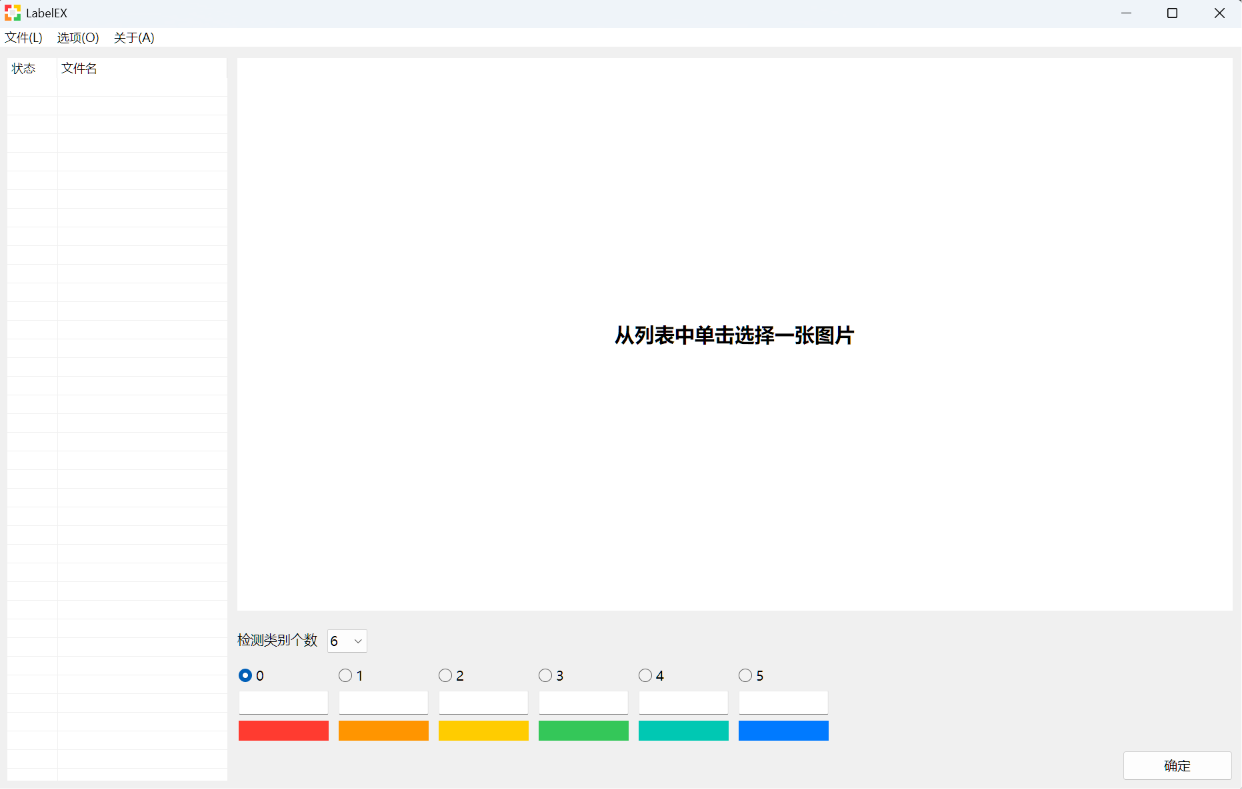
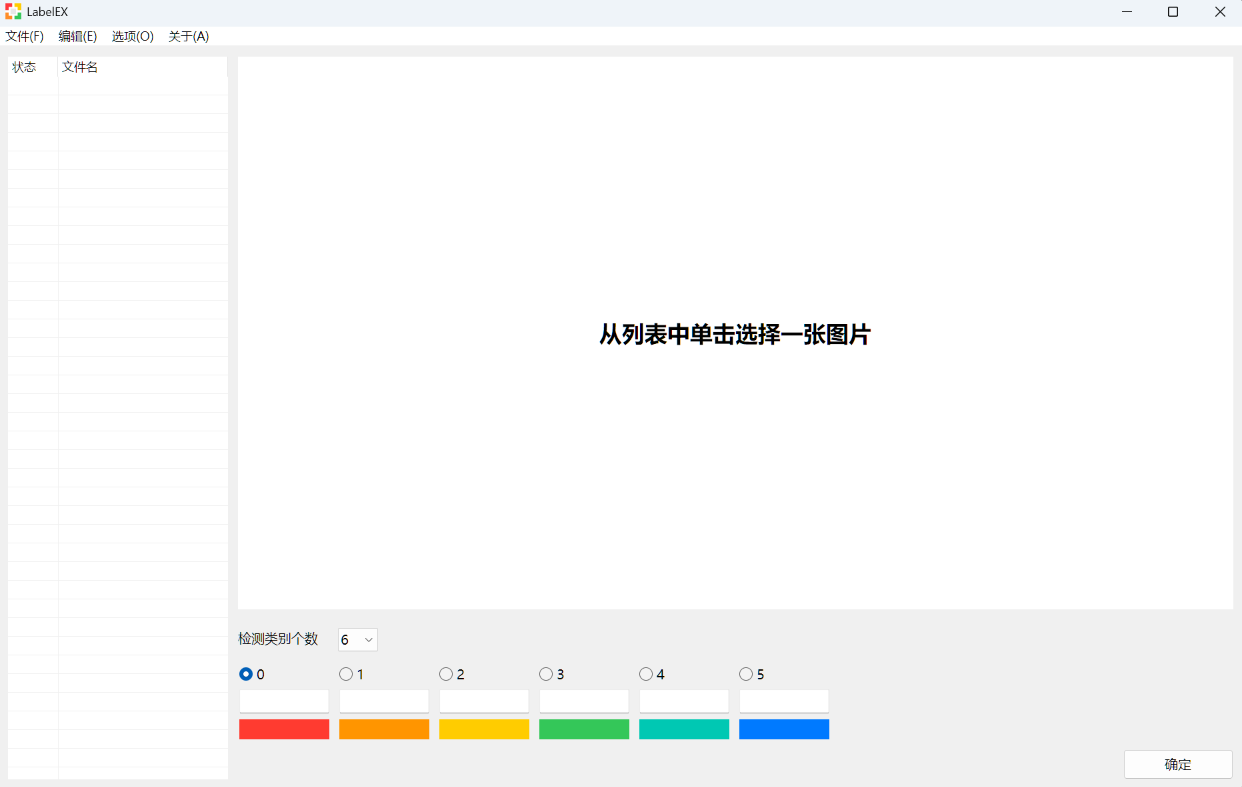
<01003> Released as VERSION v1.0.0,  added documentation of this version

diff --git a/doc/API_DOCUMENTATION.md b/doc/API_DOCUMENTATION.md
@@ -1,5 +1,5 @@
 # LabelEX API Documentation
-> Version: 0.1.0(beta) Dev 00021  
+> Version: 1.0.0 Dev 01003 
 > Language: Simplified Chinese
 
 ## Content
@@ -15,12 +15,18 @@
 #define ID_OPEN_FOLDER 1002							//Menu ID for folder opening
 #define ID_EXPORT_CALI 1003							//Menu ID for Caliberation Dataset exporting
 #define ID_EXPORT_DATASET 1004						//Menu ID for Dataset exporting
-#define ID_CONFIG_EXPORT 2001						//Menu ID for exporting configuration
-#define ID_CONFIG_INTERFACE 2002					//Menu ID for ui configuration
-#define ID_VERSION 3001								//Menu ID for version page
-#define ID_MIT 3002									//Menu ID for license page
+#define ID_UNDO 2001								//Menu ID for Undoing operations on IDC_PICTURE
+#define ID_REDO 2002								//Menu ID for Redoing operations on IDC_PICTURE
+#define ID_DELETE_PHOTO 2003						//Menu ID for deleting selected image
+#define ID_AUDIT 2004								//(Unfinished) Menu ID for Entering auditing mode
+#define ID_CONFIG_EXPORT 3001						//(Aborted) Menu ID for export configurations
+#define ID_CONFIG_INTERFACE 3002					//Menu ID for interface configurations
+#define ID_VERSION 4001								//Menu ID for version page
+#define ID_MIT 4002									//Menu ID for license page
 #define WM_USER_REFRESH_LIST (WM_USER + 100)		//Message for a thorough list refresh, when photos are added or removed
 #define WM_USER_UPDATE_ITEM (WM_USER + 101)			//Message for item adding, when txt files are added or removed
+#define WM_USER_DELETE_IMAGE (WM_USER + 104)		//Message for deleting images
+#define WM_USER_DELETE_POINTER (WM_USER + 105)		//Message for deleting pCurrentImage
 ```
 #### PagePicture.cpp
 ```cpp
@@ -28,12 +34,15 @@
 #define WM_USER_UPDATE_ITEM (WM_USER + 101)			//Message for item adding, when txt files are added or removed
 #define WM_USER_STOP_MONITOR (WM_USER + 102)		//Message for stopping folder monitor
 #define WM_USER_START_MONITOR (WM_USER + 103)		//(Aborted) Message for starting folder monitor
+#define WM_USER_DELETE_IMAGE (WM_USER + 104)		//Message for deleting images
+#define WM_USER_DELETE_POINTER (WM_USER + 105)		//Message for deleting pCurrentImage
+#define WM_USER_CLEAR_PICTURE (WM_USER + 106)		//Message for clearing IDC_PICTURE
 #define WM_USER_UPDATE_LISTVIEW (WM_USER + 200)		//Message for UI updating of IDC_LISTVIEW
 #define WM_USER_UPDATE_PROGRESS (WM_USER + 201) 	//Message for UI updating of IDC_PROGRESS
 #define WM_USER_STOP_MARQUEE (WM_USER + 301)		//Message for stopping MARQUEE of IDC_PROGRESS
 #define TIMER_REFRESH_DEBOUNCE 1001					//Message for time-up of the timer 
 ```
-#### PageAbout.cpp
+#### PageVideo.cpp
 ```cpp
 #define WM_USER_REFRESH_LIST (WM_USER + 100)		//Message for a thorough list refresh, when photos are added or removed
 #define WM_USER_VIDEO_READY (WM_USER + 400)			//Message when a video is accepted by FFmpeg and is ready to convert
@@ -52,11 +61,6 @@
 ## Structs
 #### PagePicture.cpp
 ```cpp
-struct BBox {
-	int left, top, right, bottom;	//The basic specs of your drawn rectangle
-	int classId;					//The Class ID of the circled object
-};
-
 struct ImageFileInfo {
 	std::wstring fileName;			//The filename in the IDC_LISTVIEW
 	BOOL status;					//The status in the IDC_LISTVIEW
@@ -90,6 +94,16 @@ struct SplitParams
 	BOOL bType;									//type of the processing
 };
 ```
+#### history.h
+```cpp
+struct BBox;				//struct of boxes
+struct DocumentSnapshot;	//struct of snapshot for boxes
+class History				//class of limited history record
+```
+#### ini.h
+```cpp
+class IniFile				//class of configurating config.ini
+```
 
 ## Global Variables
 #### main.cpp
@@ -103,23 +117,27 @@ HWND hPagePicture;							//Picture页面句柄
 ```
 #### PagePicture.cpp
 ```cpp
-Bitmap* pCurrentImage = nullptr;					//打开的图片句柄
+Bitmap* pCurrentImage = nullptr;					//当前显示的图片句柄（GDI+ Bitmap）
 HWND hImageCtrl = nullptr;							//图片编辑区句柄（Button控件）
-HWND hProgressDlg = nullptr;						//处理窗口句柄
-std::vector<BBox> bboxes;							//矩形集合
-int currentClassId = 0;								//当前的物体的类别
-int selectedIndex = -1;								//选中的矩形索引
-int threshold = 6;									//画笔与矩形宽度							
-WNDPROC oldPicProc = NULL;							//子类化前原有的处理过程
+HWND hProgressDlg = nullptr;						//处理窗口句柄（marquee 进度框）
+std::vector<BBox> bboxes;							//当前图片的矩形集合
+std::vector<BBox> dragStartBBoxes;					//拖拽开始时的矩形快照（用于判断是否提交历史）
+
+int currentClassId = 0;								//当前选中的物体类别
+int selectedIndex = -1;								//选中的矩形索引（-1 表示无选中）
+int iniBox = 4;										//矩形边框粗细（从 INI 读取）
+int iniHandle = 8;									//手柄尺寸（从 INI 读取）
+WNDPROC oldPicProc = NULL;							//子类化前原有的窗口过程
 enum DragMode {None, Moving, Resizing, Creating};	//鼠标拖拽模式
-DragMode dragMode = None;
-int resizeHandle = -1;								//手柄
-POINT dragStart;									//起始拖拽坐标
-POINT dragOffset;									//拖拽偏移量								
-wchar_t szFolderPath[MAX_PATH] = { 0 };				//当前文件夹目录
-std::wstring currentImagePath;						//当前图片目录
-BOOL isProcessExist = false;						//是否正在处理
-BOOL isPendingRefresh = false;						//处理过程中是否有新的
+DragMode dragMode = None;							//当前拖拽状态
+int resizeHandle = -1;								//当前拖拽的手柄索引（-1 表示无）
+POINT dragStart;									//拖拽起始坐标（图像坐标系）
+POINT dragOffset;									//拖拽偏移量（图像坐标系）
+wchar_t szFolderPath[MAX_PATH] = { 0 };				//当前标注文件夹目录
+std::wstring currentImagePath;						//当前图片完整路径
+BOOL isProcessExist = false;						//刷新线程是否正在运行
+BOOL isPendingRefresh = false;						//刷新期间是否有新的刷新请求
+History history;									//撤销/重做栈
 ```
 #### PageVideo.cpp
 ```cpp
@@ -130,6 +148,7 @@ int videoCount;										//视频计数
 #### PageExport.cpp
 ```cpp
 HWND hDsProcessDlg;									//数据集处理窗口句柄
+BOOL isChanged = FALSE;								//百分比同时变化限制
 ```
 
 ## Functions
@@ -285,6 +304,17 @@ Color GetClassColor(int classId)
 - 简介：画笔选择颜色用以绘制不同的类的矩形
 - 参数：类`classId`
 - 返回：颜色类`
+void DoUndo(HWND hImg)
+撤销图片标注更改
+- 简介：从历史栈弹出并恢复到上一步的矩形集合
+- 参数：图片编辑区句柄`hImg`
+- 返回：无
+
+void DoRedo(HWND hImg)
+重做图片标注更改
+- 简介：从历史栈恢复被撤销的矩形集合
+- 参数：图片编辑区句柄`hImg`
+- 返回：无
 
 #### PageVideo.cpp
 ```cpp
@@ -326,7 +356,18 @@ DWORD WINAPI DoConvertVideo(LPVOID lpParam)
 - 简介：通过FFmpeg动态链接库解析视频，保存指定帧到指定的文件夹
 - 参数：父窗口上下文`lpParam`
 - 返回：任何时候都返回`0`
-
+```cpp
+bool WriteYaml(const std::wstring& path, const std::wstring& content);
+```
+- 简介：将字符串内容以 UTF-8 编码写入指定文件。
+- 参数：path：目标文件完整路径。content：要写入的文本内容。
+- 返回：true：文件打开成功并完成写入。false：文件打开失败。
+```cpp
+bool IsEditEmpty(HWND hEdit);
+```
+简介：判断 EDIT 控件中的文本是否为空或仅由空白字符组成。
+参数：hEdit：EDIT 控件窗口句柄。
+返回：true：文本为空或全为空白。false：存在至少一个非空白字符。
 #### PageExport.cpp
 ```cpp
 DWORD WINAPI BuildDataset(LPVOID lpParam)

diff --git a/doc/USER_MANUAL.md b/doc/USER_MANUAL.md
@@ -1,5 +1,5 @@
 # LabelEX User Manual
-> Version: 0.1.0(beta) Dev 00021  
+> Version: 1.0.0 Dev 01003  
 > Language: Simplified Chinese
 
 ## 目录
@@ -22,6 +22,18 @@
 ##### 导出数据集
 支持导出数据集，用于模型训练
 
+### 编辑
+##### 撤销
+支持撤销在打开的图片上的标注操作
+##### 重做
+支持重做在打开的图片上的标注操作
+##### 删除此图片
+支持删除列表中打开的图片
+
+### 选项
+##### 界面设置
+支持调整矩形框的线宽与手柄宽度
+
 ### 关于
 ##### 版本
 查看版本信息
@@ -38,7 +50,9 @@
 - 单击鼠标左键，开始绘制矩形框，拖动鼠标，松开鼠标左键结束绘制  
 - 单击矩形框可选中对应的矩形，此时出现编辑手柄  
 - 按住矩形框，拖动鼠标即可拖动矩形框，按住编辑手柄，拖动鼠标即可编辑矩形框大小  
-- 如绘制出现问题，在选中矩形框后按下`delete`，即可删除不需要的矩形框
+- 如绘制出现问题，在选中矩形框后按下`delete`，即可删除不需要的矩形框  
+- 按下`Ctrl`+`Z`撤销操作，按下`Ctrl`+`Y`重做操作，单步撤销最多撤销200步  
+- 按下`Ctrl`+`S`或者`Enter`保存并切换到下一张照片
 ### 标签类别选择区
 在此标签类别选择区内，你可以选择类别总数（从1-10）  
 你可以选择对应的标签及其颜色：单击`0`-`9`的任意按钮，绘制的矩形框颜色就变成如下方展示的颜色，此时在图片编辑区绘制矩形框，代表框内物体的类别序号是你选择的按钮的序号  
@@ -66,17 +80,22 @@ class_id x_center y_center width height
 ##### 校准集
 导出校准集时，会使用Fisher Yates算法随机选取一定数量的图片进行导出。这一数量是由图片总量和你指定的导出比例决定的  
 将会导出到你当前目录的`Calibration`文件夹下  
-导出后，这些随机图片将会直接移动到`Calibration`文件夹中，当前目录下的这些图片将会消失
+导出后，这些随机图片将会复制到`Calibration`文件夹中
 ##### 数据集
 导出数据集时，会使用Fisher Yates算法随机选取一定数量的图片和标注文件进行导出。这一数量是由图片和标注文件总量和你指定的训练集比例决定的  
 将会导出到你当前目录的`dataset`文件夹下，并自动按照YOLO规则构建dataset文件夹  
-导出后，这些图片和标注文件仍将保留在当前目录下
+导出后，这些图片和标注文件仍将保留在当前目录下  
+同时，支持以Yolo标准格式导出`data.yaml`在当前目录下
 
 ## 快捷键
 - `Alt` + `F` : 文件子菜单
 - `Alt` + `O` : 选项子菜单
 - `Alt` + `A` : 关于子菜单
 - `Delete` : 删除选中的文件
+- `Ctrl` + `Z` : 撤销
+- `Ctrl` + `Y` : 重做
+- `Ctrl` + `S` : 保存标注并切换到下一张照片
+- `Enter`: 保存标注并切换到下一张图片
 - `0` - `9` : 选择类
 
 ## 常见问题

diff --git a/README.md b/README.md
@@ -1,6 +1,6 @@
 # LabelEX - For EASY model labeling!
 There are many model labeling tools available today, but they either fail completely after changing environments, or are painfully difficult to use and plagued by frequent crashes.  
-It's time to switch to **LabelEX** – a labeling tool written entirely with the Win32 API.
+It's time to switch to **LabelEX** – a labeling tool written with the Win32 API and FFmpeg DLLs.
 ## Quick start guide
 Simplified Chinese:  
 打开`LabelEX.exe`，界面如下所示 
@@ -23,13 +23,13 @@ Simplified Chinese:
 - 在上方绘制矩形框，注意使得矩形框内侧紧贴需要标注的物体边缘，矩形框本身并不计入  
 - 单击矩形框可选中对应的矩形，此时出现编辑手柄  
 - 按住矩形框即可拖动矩形框，按住编辑手柄即可编辑矩形框大小  
-- 如绘制出现问题，在选中矩形框后按下`delete`，即可删除不需要的矩形框
+- 如绘制出现问题，在选中矩形框后按下`delete`，即可删除不需要的矩形框，也可以`Ctrl`+`Z`撤销有问题的修改，或者`Ctrl`+`Y`将其重做  
 
-绘制完毕后，单击右下角的“确定”，会自动生成此图片的标签文件，并切换到下一张图片  
+绘制完毕后，单击右下角的“确定”、按下`Enter`或者`Ctrl`+`S`，会自动生成此图片的标签文件，并切换到下一张图片  
 标签文件将生成在当前目录，当当前目录下存在有效的标签文件时，列表状态将变为“√”，此时单击列表的文件可以预览标注结果  
 
 文件菜单中单击导出校准集，可以按照比例导出用于格式转换的校准集  
-单击导出数据集，可以按照比例导出用于训练的数据集
+单击导出数据集，可以按照比例导出用于训练的数据集和其YAML描述文件
 ## System requirement
 - Operating System: Windows 10/11 (build 17763 and above)  
 - Architecture: x86/64  
@@ -46,9 +46,15 @@ LabelEX
 │   ├── main.cpp/h # main/program entrance
 │   ├── PageAbout.cpp # about and license page
 │   ├── PagePicture.cpp # picture editing page
+│   ├── PageVideo.cpp # import video
+│   ├── PageConfig.cpp # configuration page
+│   ├── ini.h # .ini files operations
+│   ├── history.h # undo and redo utilities
 │	└── resource.h # resource ID
 ├── res/
 │   ├── LabelEX.rc # resource files
+│   ├── icon.ico # icon
+│   ├── SL.bmp # SL flag shown in version page
 │	└── manifest.xml # enable Common Controls 6.0
 ├── CMakeLists.txt # CMake configurations
 └── README.md # readme

diff --git a/doc/ARCHITECTURE.md b/doc/ARCHITECTURE.md
@@ -1,12 +1,13 @@
 # ARCHITECTURE
-> Version: 0.1.0(beta) Dev 00021  
+> Version: 1.0.0 Dev 01003
 > Language: Simplified Chinese
 
 # 技术栈
 C++ 17,  
 Win32 API,  
 GDI+,  
-Common Controls
+Common Controls, 
+FFmpeg
 
 # 总架构图
 ### 暂未更新
